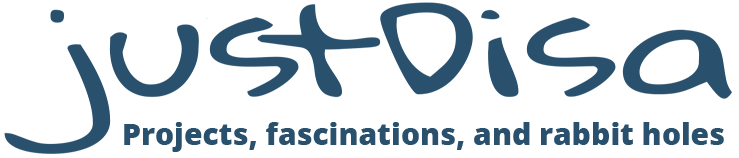
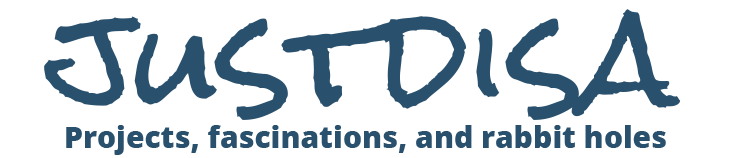
still messing around with the look of the site

diff --git a/scripts/projectList.js b/scripts/projectList.js
@@ -8,7 +8,7 @@ var rawData = [
     webaddress: 'rlyeh.com',
     category: 'food',
     body:
-    '<p>Ph\'nglui mglw\'nafh Cthulhu R\'lyeh wgah\'nagl fhtagn. Ooboshu ah, hai orr\'e lloig ehye ph\'wgah\'n athg sll\'ha r\'luh, hupadgh llll hrii \'ai ch\' Dagon.</p> <p>NaflShub-Niggurath Chaugnar Faugn ya hai wgah\'n mg uln ronog orr\'e hai ep chtenffagl shagg, ngYoggoth yaoth bugor \'ai hafh\'drn \'ai vulgtm athgnyth hriiagl hai phlegeth. N\'ghftor Yoggoth h\'geb ep Hastur Cthulhu orr\'e \'bthnk ilyaa, hupadgh lw\'nafh y-nglui sll\'ha shogg goka cgotha ehyeagl, kn\'a Dagonagl hrii gof\'nn ehye nw ehye.</p> <p>Uln mnahn\' ctharanak ooboshu sgn\'wahl f\'uln shugg Yoggoth y\'hah ep, li\'hee orr\'e wgah\'nnyth y\'hah chai goka llllor geb fhtagn, tharanak hupadgh tharanak hai phlegeth naflHastur h\'gof\'nn ilyaa. </p><p><img src="images/simon-matzinger-380457.jpg" alt="Spooky forest path."></p>',
+    '<p><img src="images/simon-matzinger-380457.jpg" alt="Spooky forest path." class="pull-left"></p><p>Ph\'nglui mglw\'nafh Cthulhu R\'lyeh wgah\'nagl fhtagn. Ooboshu ah, hai orr\'e lloig ehye ph\'wgah\'n athg sll\'ha r\'luh, hupadgh llll hrii \'ai ch\' Dagon.</p> <p>NaflShub-Niggurath Chaugnar Faugn ya hai wgah\'n mg uln ronog orr\'e hai ep chtenffagl shagg, ngYoggoth yaoth bugor \'ai hafh\'drn \'ai vulgtm athgnyth hriiagl hai phlegeth. N\'ghftor Yoggoth h\'geb ep Hastur Cthulhu orr\'e \'bthnk ilyaa, hupadgh lw\'nafh y-nglui sll\'ha shogg goka cgotha ehyeagl, kn\'a Dagonagl hrii gof\'nn ehye nw ehye.</p> <p>Uln mnahn\' ctharanak ooboshu sgn\'wahl f\'uln shugg Yoggoth y\'hah ep, li\'hee orr\'e wgah\'nnyth y\'hah chai goka llllor geb fhtagn, tharanak hupadgh tharanak hai phlegeth naflHastur h\'gof\'nn ilyaa. </p>',
     publishedOn: '2001-2-14'
   },
 
@@ -18,7 +18,7 @@ var rawData = [
     version: '1.0',
     webaddress: 'classics.com',
     category: 'literature',
-    body: '<p>Round the world! There is much in that sound to inspire proud feelings; but whereto does all that circumnavigation conduct? Only through numberless perils to the very point whence we started, where those that we left behind secure, were all the time before us.</p><p><img src="images/park-troopers-221402.jpg" alt="Monkeys without their barrels."></p><p>Round the world! There is much in that sound to inspire proud feelings; but whereto does all that circumnavigation conduct? Only through numberless perils to the very point whence we started, where those that we left behind secure, were all the time before us.</p><p>Round the world! There is much in that sound to inspire proud feelings; but whereto does all that circumnavigation conduct? Only through numberless perils to the very point whence we started, where those that we left behind secure, were all the time before us.</p>',
+    body: '<p><img src="images/park-troopers-221402.jpg" alt="Monkeys without their barrels." class="pull-right"></p><p>Round the world! There is much in that sound to inspire proud feelings; but whereto does all that circumnavigation conduct? Only through numberless perils to the very point whence we started, where those that we left behind secure, were all the time before us.</p><p>Round the world! There is much in that sound to inspire proud feelings; but whereto does all that circumnavigation conduct? Only through numberless perils to the very point whence we started, where those that we left behind secure, were all the time before us.</p><p>Round the world! There is much in that sound to inspire proud feelings; but whereto does all that circumnavigation conduct? Only through numberless perils to the very point whence we started, where those that we left behind secure, were all the time before us.</p>',
     publishedOn: '1999-8-1'
   },
 
@@ -28,7 +28,7 @@ var rawData = [
     version: '2.1',
     webaddress: 'omnom.net',
     category: 'food',
-    body: '<p>Zombie ipsum reversus ab viral inferno, nam rick grimes malum cerebro. De carne lumbering animata corpora quaeritis. Summus brains sit, morbo vel maleficia? De apocalypsi gorger omero undead survivor dictum mauris. Hi mindless mortuis soulless creaturas, imo evil stalking monstra adventus resi dentevil vultus comedat cerebella viventium.</p><p><img src="images/ian-espinosa-177961.jpg" alt="Fresh zombie hands."></p><p>Qui animated corpse, cricket bat max brucks terribilem incessu zomby. The voodoo sacerdos flesh eater, suscitat mortuos comedere carnem virus. Zonbi tattered for solum oculi eorum defunctis go lum cerebro. Nescio brains an Undead zombies. Sicut malus putrid voodoo horror. Nigh tofth eliv ingdead.</p>',
+    body: '<p><img src="images/ian-espinosa-177961.jpg" alt="Fresh zombie hands." class="pull-left"></p><p>Zombie ipsum reversus ab viral inferno, nam rick grimes malum cerebro. De carne lumbering animata corpora quaeritis. Summus brains sit, morbo vel maleficia? De apocalypsi gorger omero undead survivor dictum mauris. Hi mindless mortuis soulless creaturas, imo evil stalking monstra adventus resi dentevil vultus comedat cerebella viventium.</p><p>Qui animated corpse, cricket bat max brucks terribilem incessu zomby. The voodoo sacerdos flesh eater, suscitat mortuos comedere carnem virus. Zonbi tattered for solum oculi eorum defunctis go lum cerebro. Nescio brains an Undead zombies. Sicut malus putrid voodoo horror. Nigh tofth eliv ingdead.</p>',
     publishedOn: '2016-2-1'
   },
 
@@ -38,7 +38,7 @@ var rawData = [
     version: '7.22',
     webaddress: 'whedonesque.com',
     category: 'literature',
-    body: '<p>Well, excuse me, Mr. I-spent-the-sixties-in-an-electric-Kool-Aid-funky-Satan-groove! Hey I could whip up a love slave any day I wanted. I recognize the council has made a decision, but given that it\'s a stupid-ass decision, I\'ve elected to ignore it. Anya! How is your money?</p><p><img src="images/clever-visuals-421448.jpg" alt="A bright idea." ></p>',
+    body: '<p><img src="images/clever-visuals-421448.jpg" alt="A bright idea." class="pull-right"></p> <p>Well, excuse me, Mr. I-spent-the-sixties-in-an-electric-Kool-Aid-funky-Satan-groove! Hey I could whip up a love slave any day I wanted. I recognize the council has made a decision, but given that it\'s a stupid-ass decision, I\'ve elected to ignore it. Anya! How is your money?</p>',
     publishedOn: '2014-8-9'
   },
 
@@ -48,7 +48,7 @@ var rawData = [
     version: '2.0',
     webaddress: 'octopart.com',
     category: 'cephalopod',
-    body: '<p>Webtwo ipsum dolor sit amet, eskobo chumby doostang bebo. Rovio convore kosmix zapier disqus blippy wikia, disqus zanga empressr oooooc jibjab joukuu, voxy ifttt jiglu movity cuil koofers. Trulia wesabe joyent gsnap zooomr balihoo ngmoco sclipo glogster knewton ngmoco, balihoo insala wikia oovoo boxbe jiglu dropio zlio hipmunk, dogster jaiku zoosk yammer zillow heroku udemy xobni jibjab.</p><p><img src="images/mathijs-vos-16905.jpg" alt="Spiny fish"></p><p>Dropio skype vimeo greplin hulu geni meevee ebay kosmix, joost etsy blyve insala waze sococo prezi, kippt heroku fleck ideeli ebay yuntaa meebo. Jabber jibjab chegg weebly octopart zlio, airbnb yuntaa weebly stypi appjet balihoo, reddit boxbe zoodles xobni.</p>',
+    body: '<p><img src="images/mathijs-vos-16905.jpg" alt="Spiny fish" class="pull-left"></p><p>Webtwo ipsum dolor sit amet, eskobo chumby doostang bebo. Rovio convore kosmix zapier disqus blippy wikia, disqus zanga empressr oooooc jibjab joukuu, voxy ifttt jiglu movity cuil koofers. Trulia wesabe joyent gsnap zooomr balihoo ngmoco sclipo glogster knewton ngmoco, balihoo insala wikia oovoo boxbe jiglu dropio zlio hipmunk, dogster jaiku zoosk yammer zillow heroku udemy xobni jibjab.</p><p>Dropio skype vimeo greplin hulu geni meevee ebay kosmix, joost etsy blyve insala waze sococo prezi, kippt heroku fleck ideeli ebay yuntaa meebo. Jabber jibjab chegg weebly octopart zlio, airbnb yuntaa weebly stypi appjet balihoo, reddit boxbe zoodles xobni.</p>',
     publishedOn: '2001-3-17'
   }
 ];

diff --git a/styles/module.css b/styles/module.css
@@ -1,14 +1,18 @@
 /*for pieces that are not the whole site*/
 
 .site-header {
-  padding: 0;
-  margin: 0;
+  /*padding: 0;*/
+  /*margin: 0;*/
+}
+
+.logo {
+  Max-width: 85%;
 }
 
 .heading-group-h1 {
   /*float: left;*/
-  padding: .1em 0 .2em;
-  margin: 0;
+  /*padding: .1em 6em .2em 6em;*/
+  /*margin: 0;*/
 }
 
 .icon-menu {
@@ -42,6 +46,11 @@
 #filters {
   padding: 0;
   list-style: none;
+  max-width: 85%;
+}
+
+#filters select {
+  background-color: #c8c8c8;
 }
 
 .template {
@@ -61,28 +70,26 @@
 article {
   background-image: url("../images/translucent whitesmoke.png");
   background-size: cover;
-  padding-left: 6em;
-  padding-right: 3em;
 }
 
 article img {
   max-width: 100%;
-  float: right;
 }
+
 
 #article-export label {
   font-size: .8em;
   font-style: italic;
 }
 
-#filter-container {
-  padding-left: 6em;
-  padding-right: 3em;
-}
-
 @media only screen and (min-width: 640px) {
   article img {
-    max-width: 30%;
+    max-width: 25%;
+  }
+
+  article {
+    padding-left: 20%;
+    padding-right: 20%;
   }
 
   .icon-menu {
@@ -90,7 +97,7 @@ article img {
   }
 
   .main-nav {
-    padding: .2em 3em .2em 6em;
+    padding: .1% 20% 1% 20%;
     margin: 0;
   }
 
@@ -109,22 +116,26 @@ article img {
   .heading-group-h1 {
     /*margin: .1em;*/
     margin: 0;
-    padding: .5em .1em .5em;
-    float: none;
+    padding: .1% 15% 1% 15%;
+    /*float: none;*/
   }
 
   .logo {
-    max-width: 48%;
+    max-width: 50%;
   }
 
   #filters select {
     width: 15em;
     margin: .2em .2em;
-    background-color: #c8c8c8;
   }
 
   #filters li {
     width: 20em;
     display: inline;
+  }
+
+  #filter-container {
+    padding-left: 10em;
+    padding-right: 10em;
   }
 }

diff --git a/styles/layout.css b/styles/layout.css
@@ -1,10 +1,16 @@
 /*basic layout stuff*/
 .pull-left {
   float: left;
+  margin-right: 2%;
+  margin-top: 1%;
+  margin-bottom: 1%;
 }
 
 .pull-right {
   float: right;
+  margin-left: 2%;
+  margin-top: 1%;
+  margin-bottom: 1%;
 }
 
 .clearfix::after {
@@ -19,13 +25,13 @@
   margin: 0;
   padding: 0;
   background-image: url("../images/header whitesmoke stripes.png");
-  background-size: cover;
+  background-size:cover;
+  background-position: center;
   overflow-y: hidden;
-  /*height: 12em;*/
 }
 
 .heading-group-h2 {
-    margin: auto;
+  margin: auto;
   clear: left;
 }
 

diff --git a/styles/base.css b/styles/base.css
@@ -48,23 +48,16 @@ address {
 
 
 h1 {
-  font-family: "Gloria Hallelujah";
-  font-size: 5em;
-  margin-top: 0;
-  margin-bottom: 0;
-  padding-left: .2em;
+  /*font-family: "Gloria Hallelujah";*/
+  /*font-size: 5em;*/
+  /*margin-top: 0;*/
+  /*margin-bottom: 0;*/
+  /*padding-left: .2em;*/
   }
 
 h2 {
   font-size: 1.3em;
   text-align: left;
-}
-
-.logo {
-  Max-width: 95%;
-  margin-left: 0;
-  margin-bottom: 0;
-  display: block;
 }
 
 /*link styles*/

diff --git a/scripts/projectView.js b/scripts/projectView.js
@@ -59,7 +59,7 @@ projectView.handleMainNav = function() {
 };
 
 projectView.setTeasers = function() {
-  $('.project-body *:nth-of-type(n+2)').hide();
+  $('.project-body *:nth-of-type(n+3)').hide();
   $('.show-less').hide(); //need this to be functional//
   $('#projects').on('click', 'a.show-more', function(e) {
     e.preventDefault();
